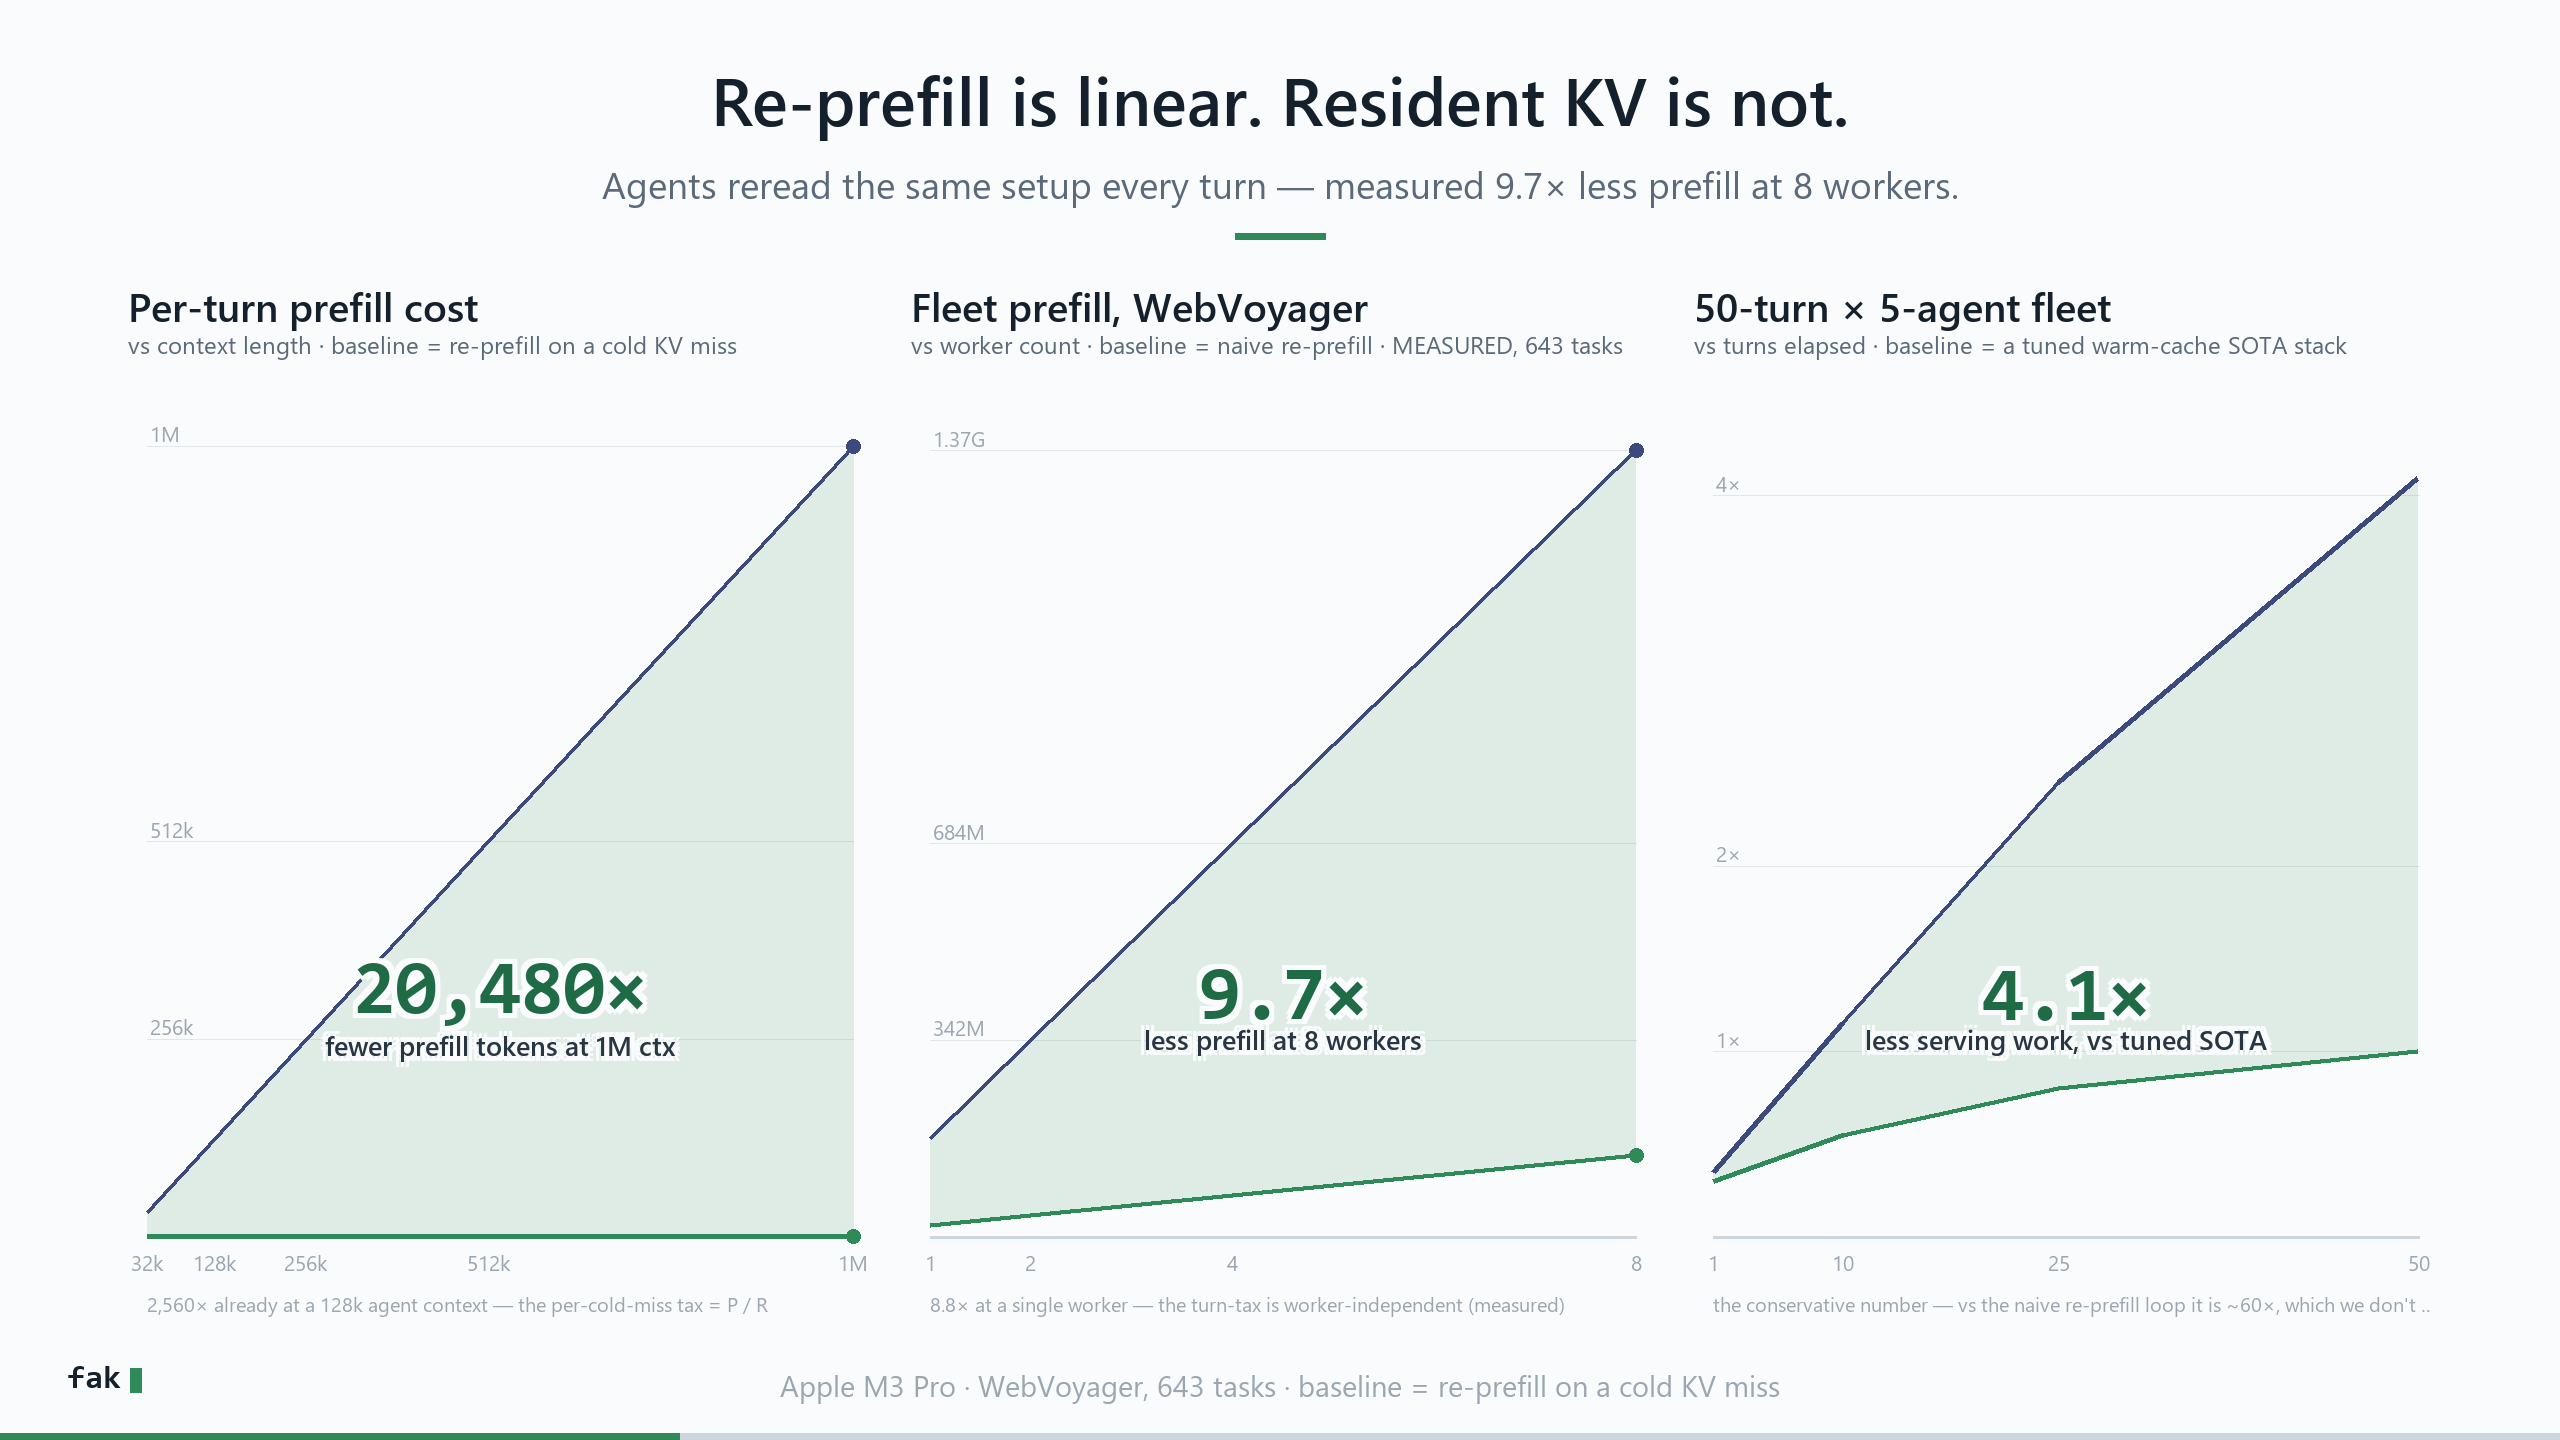
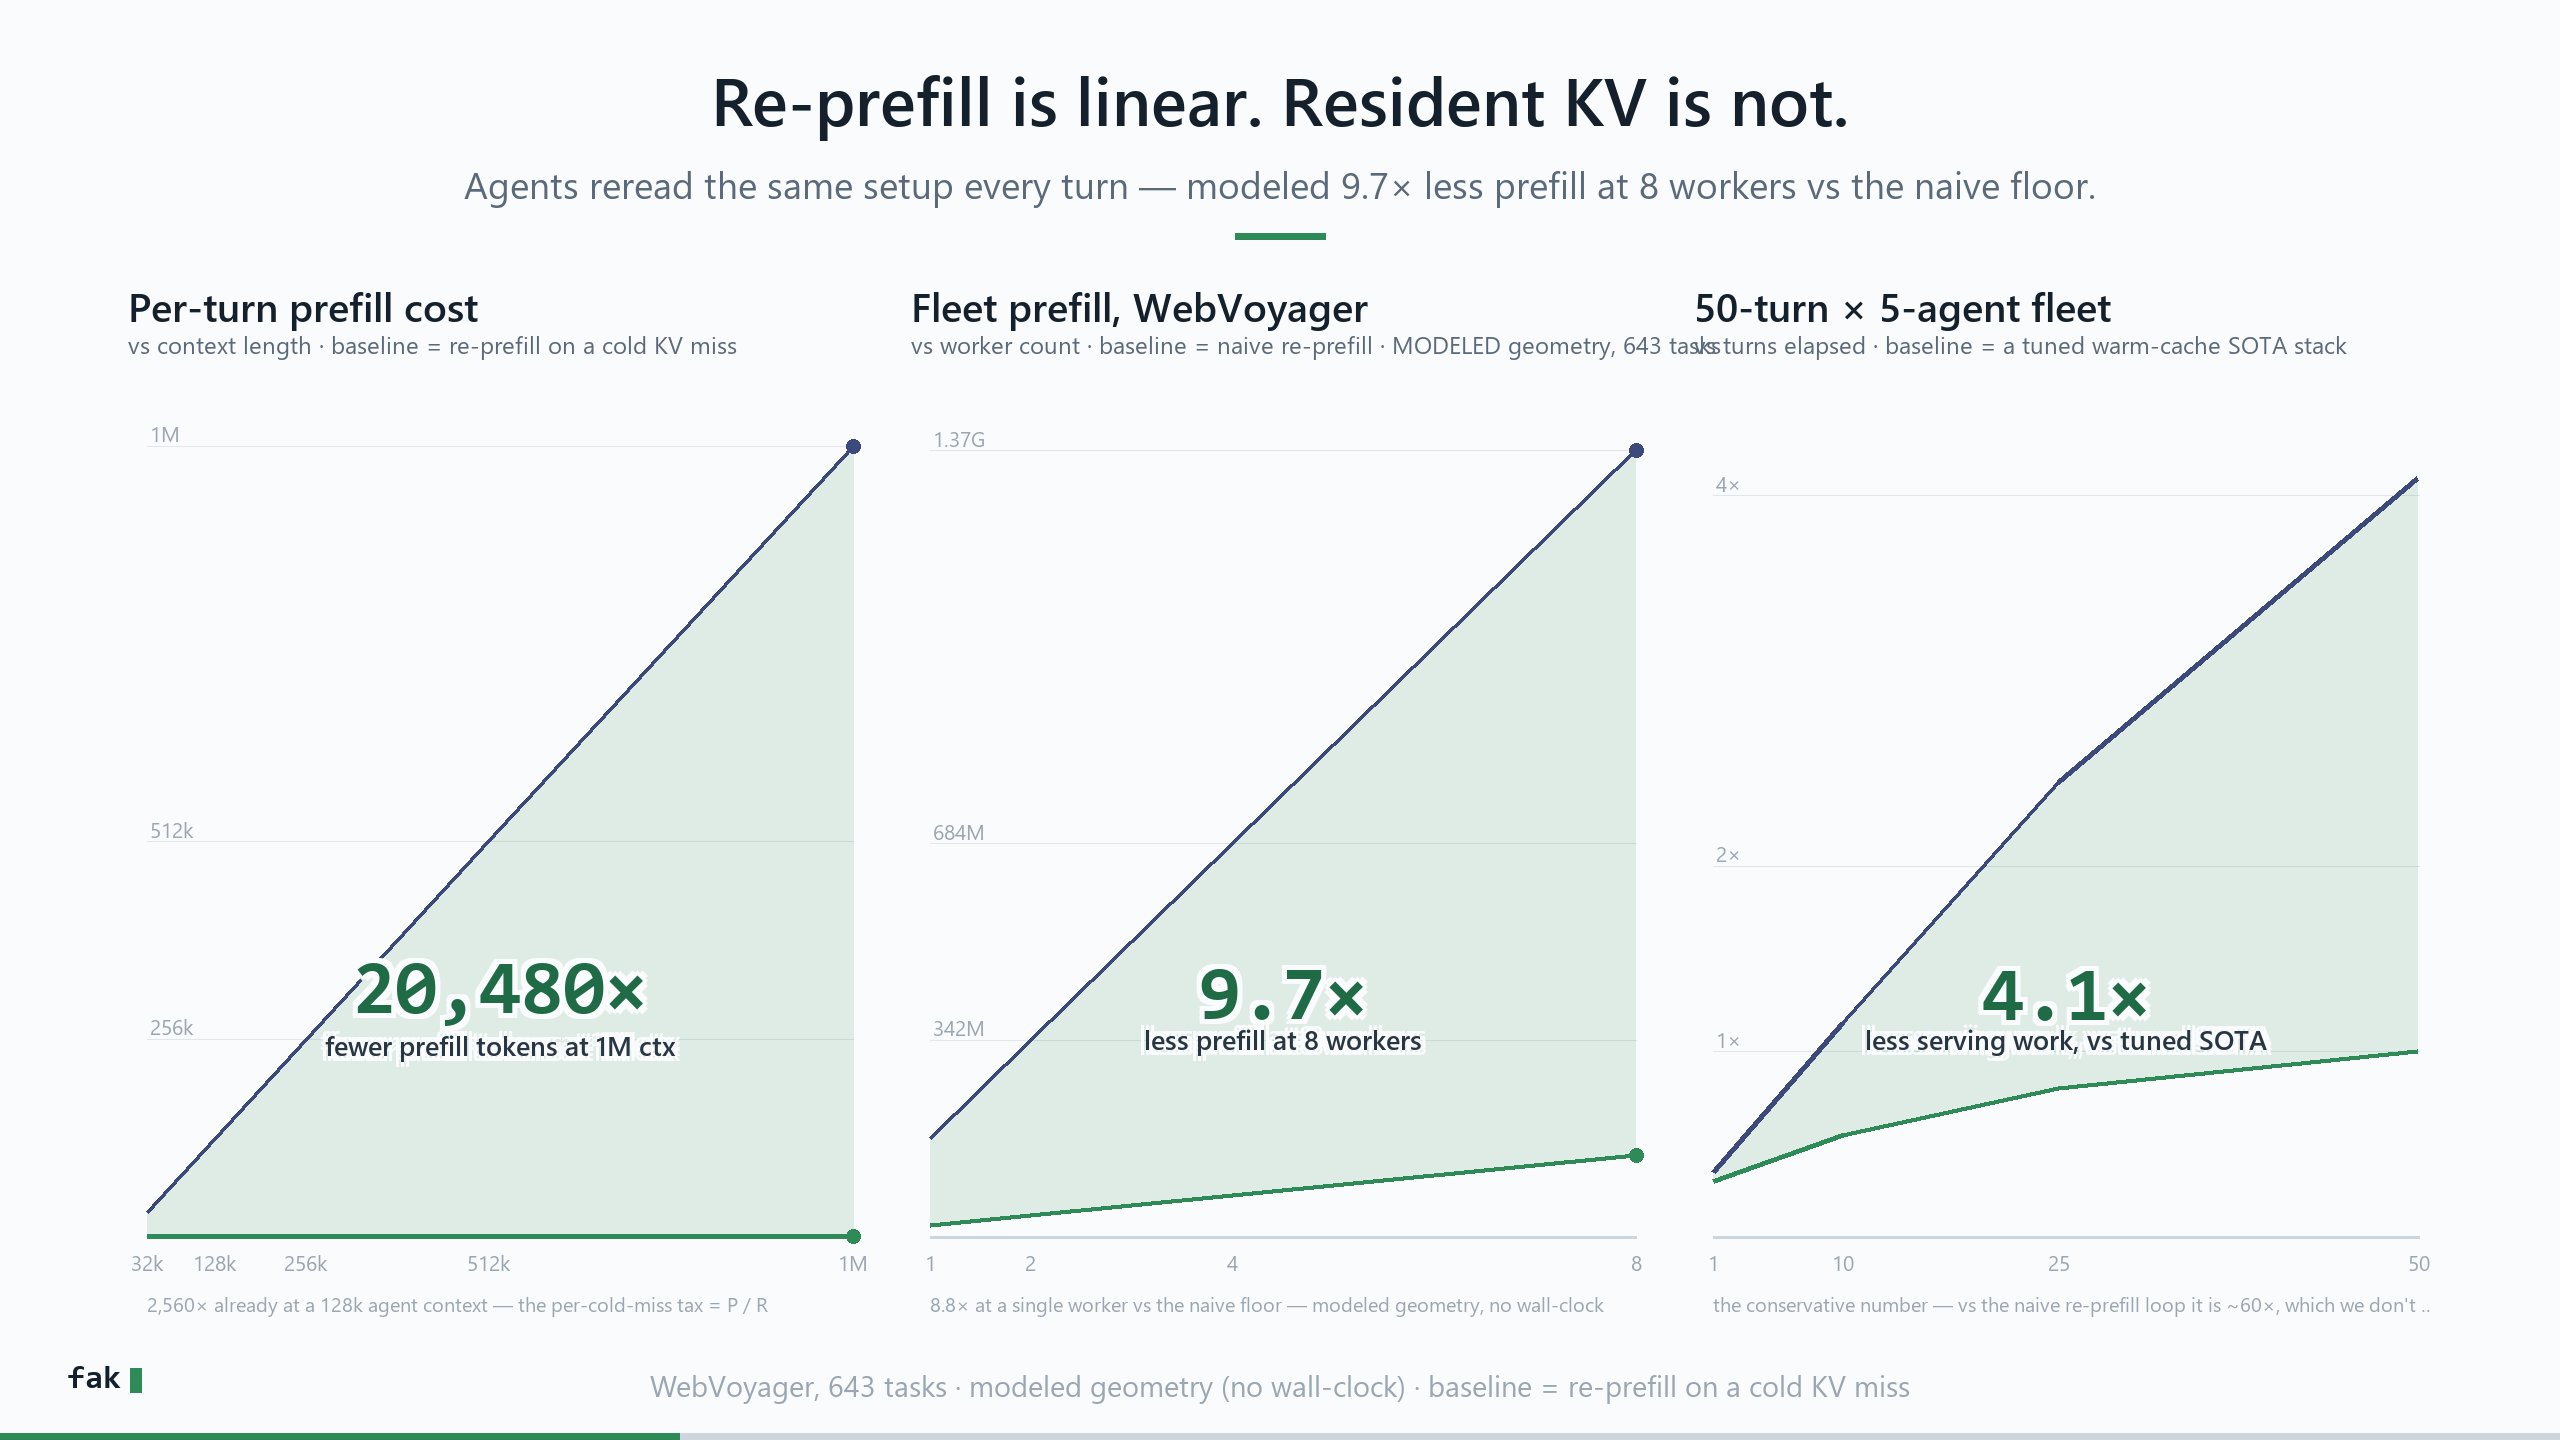
fix(visuals): correct hero image+video from "measured" to modeled 9.7x (fak visuals)
d076c47 relabeled the README PROSE but left the rendered hero chart and video —
the most-seen surface, embedded at the top of the front page — visually stamping
"measured 9.7x". The 9.7x is a closed-form geometry model (geometry.go::ComputeArms,
the tool prints "deterministic floor, no model"), not a wall-clock measurement.

Fixed all source sites + regenerated so the change reaches pixels:
- tools/hero_turntax.data.json: panel-2 subtitle/mult_foot/_about "measured" -> "modeled
  geometry, vs the naive floor".
- tools/hero_turntax_gen.py: the two hardcoded "MEASURED"/"measured" strings baked
  into the SVG <desc> and the module docstring.
- visuals/hero-video.storyboard.json: subcaptions; also dropped the false "Apple M3 Pro"
  footer (a closed-form token count runs on no machine).
- Regenerated visuals/60-hero-turntax-curves.{svg,png} (SVG drift gate green),
  hero-video.{mp4,gif}, hero-video-poster.png.

Changed region(s): [[0.1875, 0.125, 0.8125, 0.1562], [0.25, 0.9375, 0.7188, 0.9688], [0.5625, 0.2188, 0.6562, 0.25]]

diff --git a/tools/hero_turntax_gen.py b/tools/hero_turntax_gen.py
@@ -10,7 +10,7 @@ is the honest picture, not a stylisation.
 
 Each panel names its OWN baseline so the framing stays honest:
   1. per-turn prefill cost vs context     — baseline = re-prefill on a cold KV miss
-  2. WebVoyager fleet prefill (MEASURED)   — baseline = naive re-prefill, 643 tasks
+  2. WebVoyager fleet prefill (MODELED)    — baseline = naive re-prefill floor, 643 tasks
   3. 50-turn x 5-agent fleet               — baseline = a tuned warm-cache SOTA stack
 
   Source of truth : tools/hero_turntax.data.json
@@ -181,7 +181,7 @@ def svg_turntax(d: dict) -> str:
     )
     out.append(f'  <title id="tt-title">{esc(d["meta"]["title"])}</title>')
     mults = " / ".join(p["mult"] for p in d["panels"])
-    out.append(f'  <desc id="tt-desc">Three panels — per-turn prefill cost vs context, WebVoyager fleet prefill vs workers, and 50-turn fleet serving work vs turns. In each, a baseline re-prefill curve rises ~linearly while fak\'s resident-KV curve stays flat; multipliers {esc(mults)}. Panel 2 is measured (643 WebVoyager tasks); panel 3 is the conservative number vs a tuned SOTA cache.</desc>')
+    out.append(f'  <desc id="tt-desc">Three panels — per-turn prefill cost vs context, WebVoyager fleet prefill vs workers, and 50-turn fleet serving work vs turns. In each, a baseline re-prefill curve rises ~linearly while fak\'s resident-KV curve stays flat; multipliers {esc(mults)}. Panel 2 is modeled geometry vs the naive floor (643 WebVoyager tasks); panel 3 is the conservative number vs a tuned SOTA cache.</desc>')
     out.append(STYLE)
 
     out.append(f'  <rect width="{W}" height="{H}" fill="url(#tt-bg)"/>')